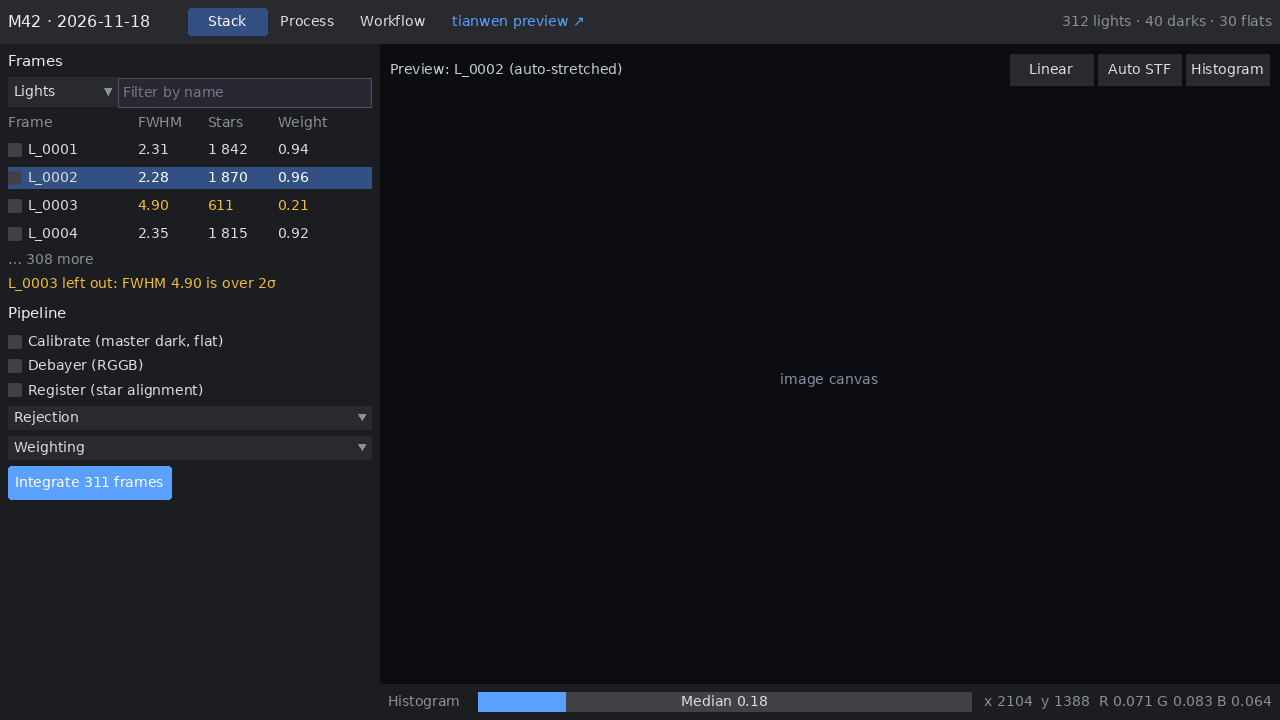
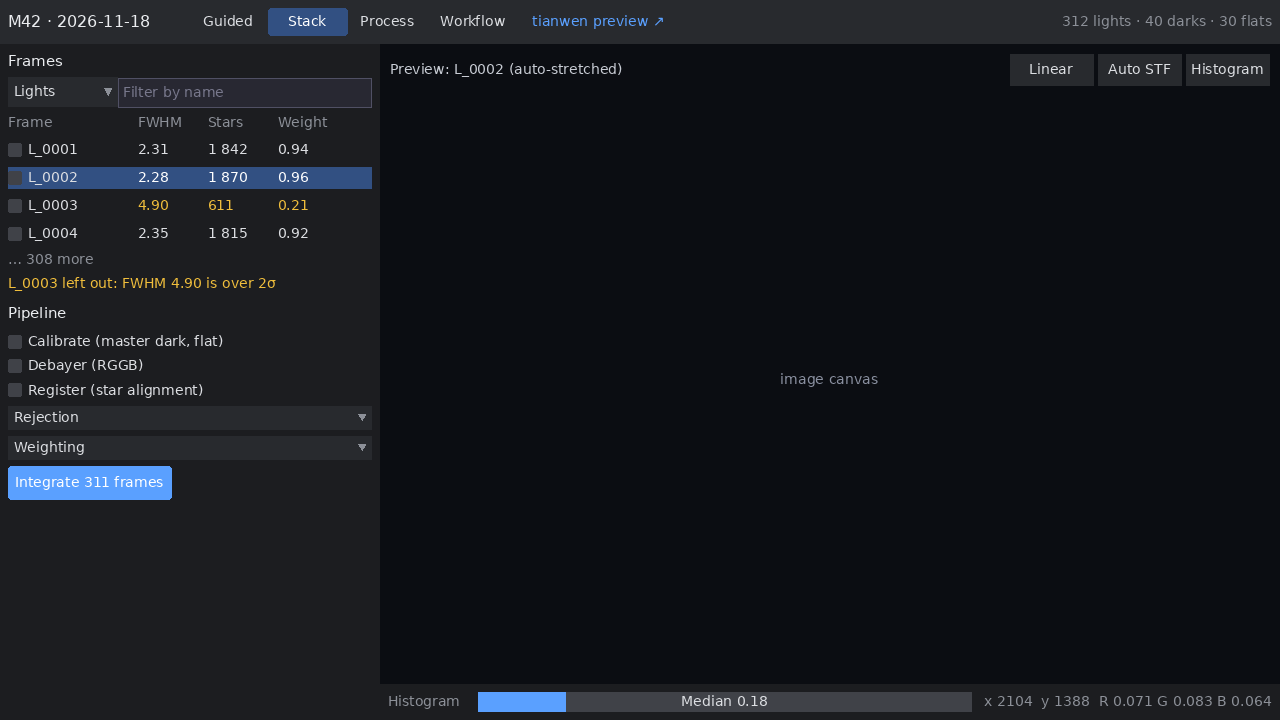
Add Guided view: APP-style step bar for a pre-built tianwen viewer workflow

Changed region(s): [[0.125, 0.0, 0.3125, 0.0611], [0.3438, 0.0, 0.5, 0.0611]]

diff --git a/DESIGN.md b/DESIGN.md
@@ -2,6 +2,16 @@
 
 **Objective:** A stand-alone app to calibrate, stack and post-process astro images, in the spirit of PixInsight; tianwen's GUI gets live stacking only, as a mode of its frame preview.
 
+## Guided
+
+**Objective:** Shows the pre-built "tianwen viewer" workflow one step at a time, like Astro Pixel Processor: load, calibrate, analyse, register, integrate, plate solve, SPCC, gradient, stretch.
+
+```screen id=guided
+Step 6 of 9: plate solve the master
+```
+
+**Notes:** The step bar is the workflow itself, laid out flat: done steps carry ✓, the current one is selected, later ones are dim, so the state is in words and marks, not colour alone. Each step has one panel (what it does, its few settings, its result) and Back / Next; the canvas shows that step's output (here the solved sky grid). Plate solve and SPCC use the same code as the tianwen viewer so a master looks the same in both. "Open as workflow" leads to the Workflow editor, where gates and extra steps live: Guided is the easy road, Workflow and Process the flexible ones.
+
 ## Stack
 
 **Objective:** Shows the session's frames with their quality (FWHM, stars, weight), which frames are left out and why, and the pipeline settings that turn them into one master.
@@ -10,7 +20,7 @@
 Stack workspace: frames, pipeline, preview
 ```
 
-**Notes:** One workspace switch (Stack · Process · Workflow) in the header instead of a menu tree. Frames over 2σ on FWHM are unticked automatically and the reason is said in words, not only by the amber colour. The image canvas is a placeholder.
+**Notes:** One workspace switch (Guided · Stack · Process · Workflow) in the header instead of a menu tree. Frames over 2σ on FWHM are unticked automatically and the reason is said in words, not only by the amber colour. The image canvas is a placeholder.
 
 ## Process
 
